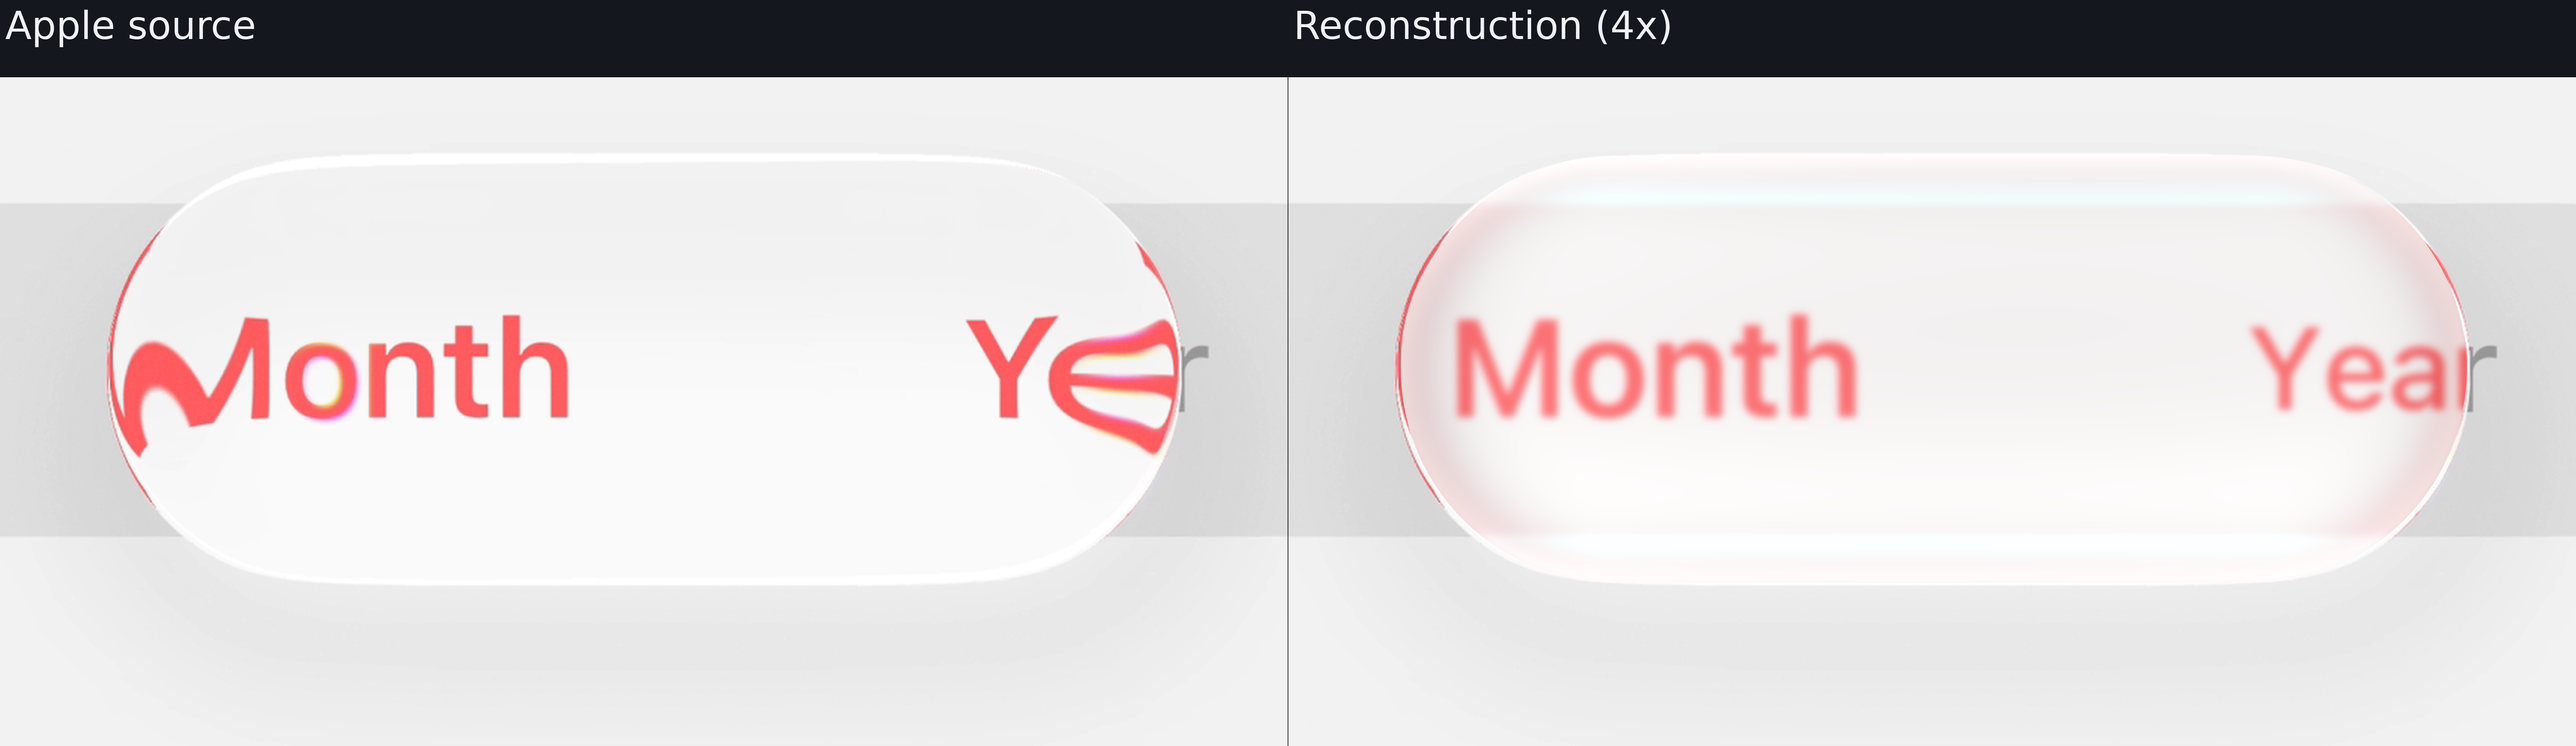
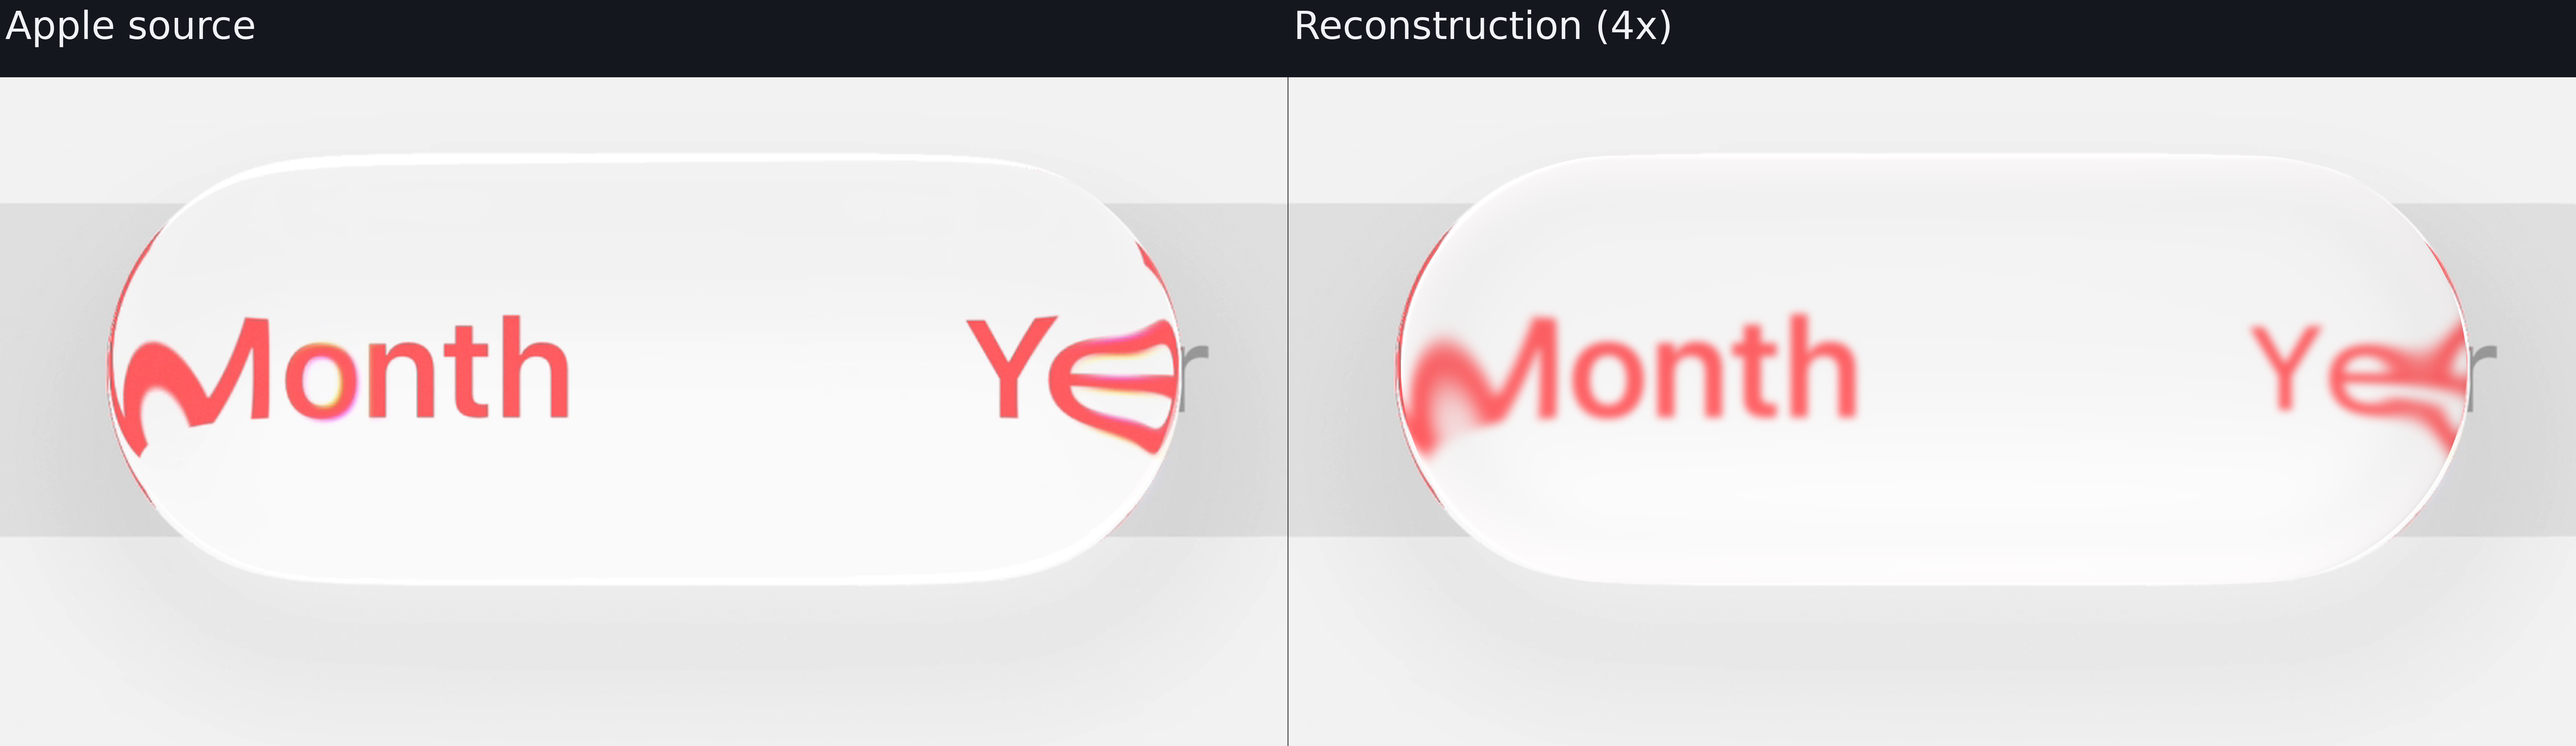
Refine active-segmented-selector pass 02: normal rim displacement profile (#222) [skip ci]

Changed region(s): [[0.5299, 0.3088, 0.6234, 0.7102], [0.9039, 0.4323, 0.9662, 0.6175]]

diff --git a/docs/reconstruction.md b/docs/reconstruction.md
@@ -302,7 +302,7 @@ Each crop below places Apple on the left and snapshot 24 on the right. The gray-
 
 ## Active segmented selector
 
-Single-reference pass 1. Weighted loss 500.377; glass RMSE 21.622 The source is Apple's Details video at 16.4 seconds. The earlier13 source-biased passes are [archived and excluded](experiments/reconstruction/studies/active-segmented-selector/invalid-track-registration/status.json); the corrected source is constrained by both distant track ends. A second observed position at 16.5 seconds is reserved for paired calibration; no paired acceptance is claimed yet.
+Single-reference pass 2. Weighted loss 299.440; glass RMSE 17.250 The source is Apple's Details video at 16.4 seconds. The earlier13 source-biased passes are [archived and excluded](experiments/reconstruction/studies/active-segmented-selector/invalid-track-registration/status.json); the corrected source is constrained by both distant track ends. A second observed position at 16.5 seconds is reserved for paired calibration; no paired acceptance is claimed yet.
 
 [![Active segmented selector: Apple left, reconstruction right](assets/study-active-segmented-selector-progress-a.png)](assets/study-active-segmented-selector-progress-a.png)
 
